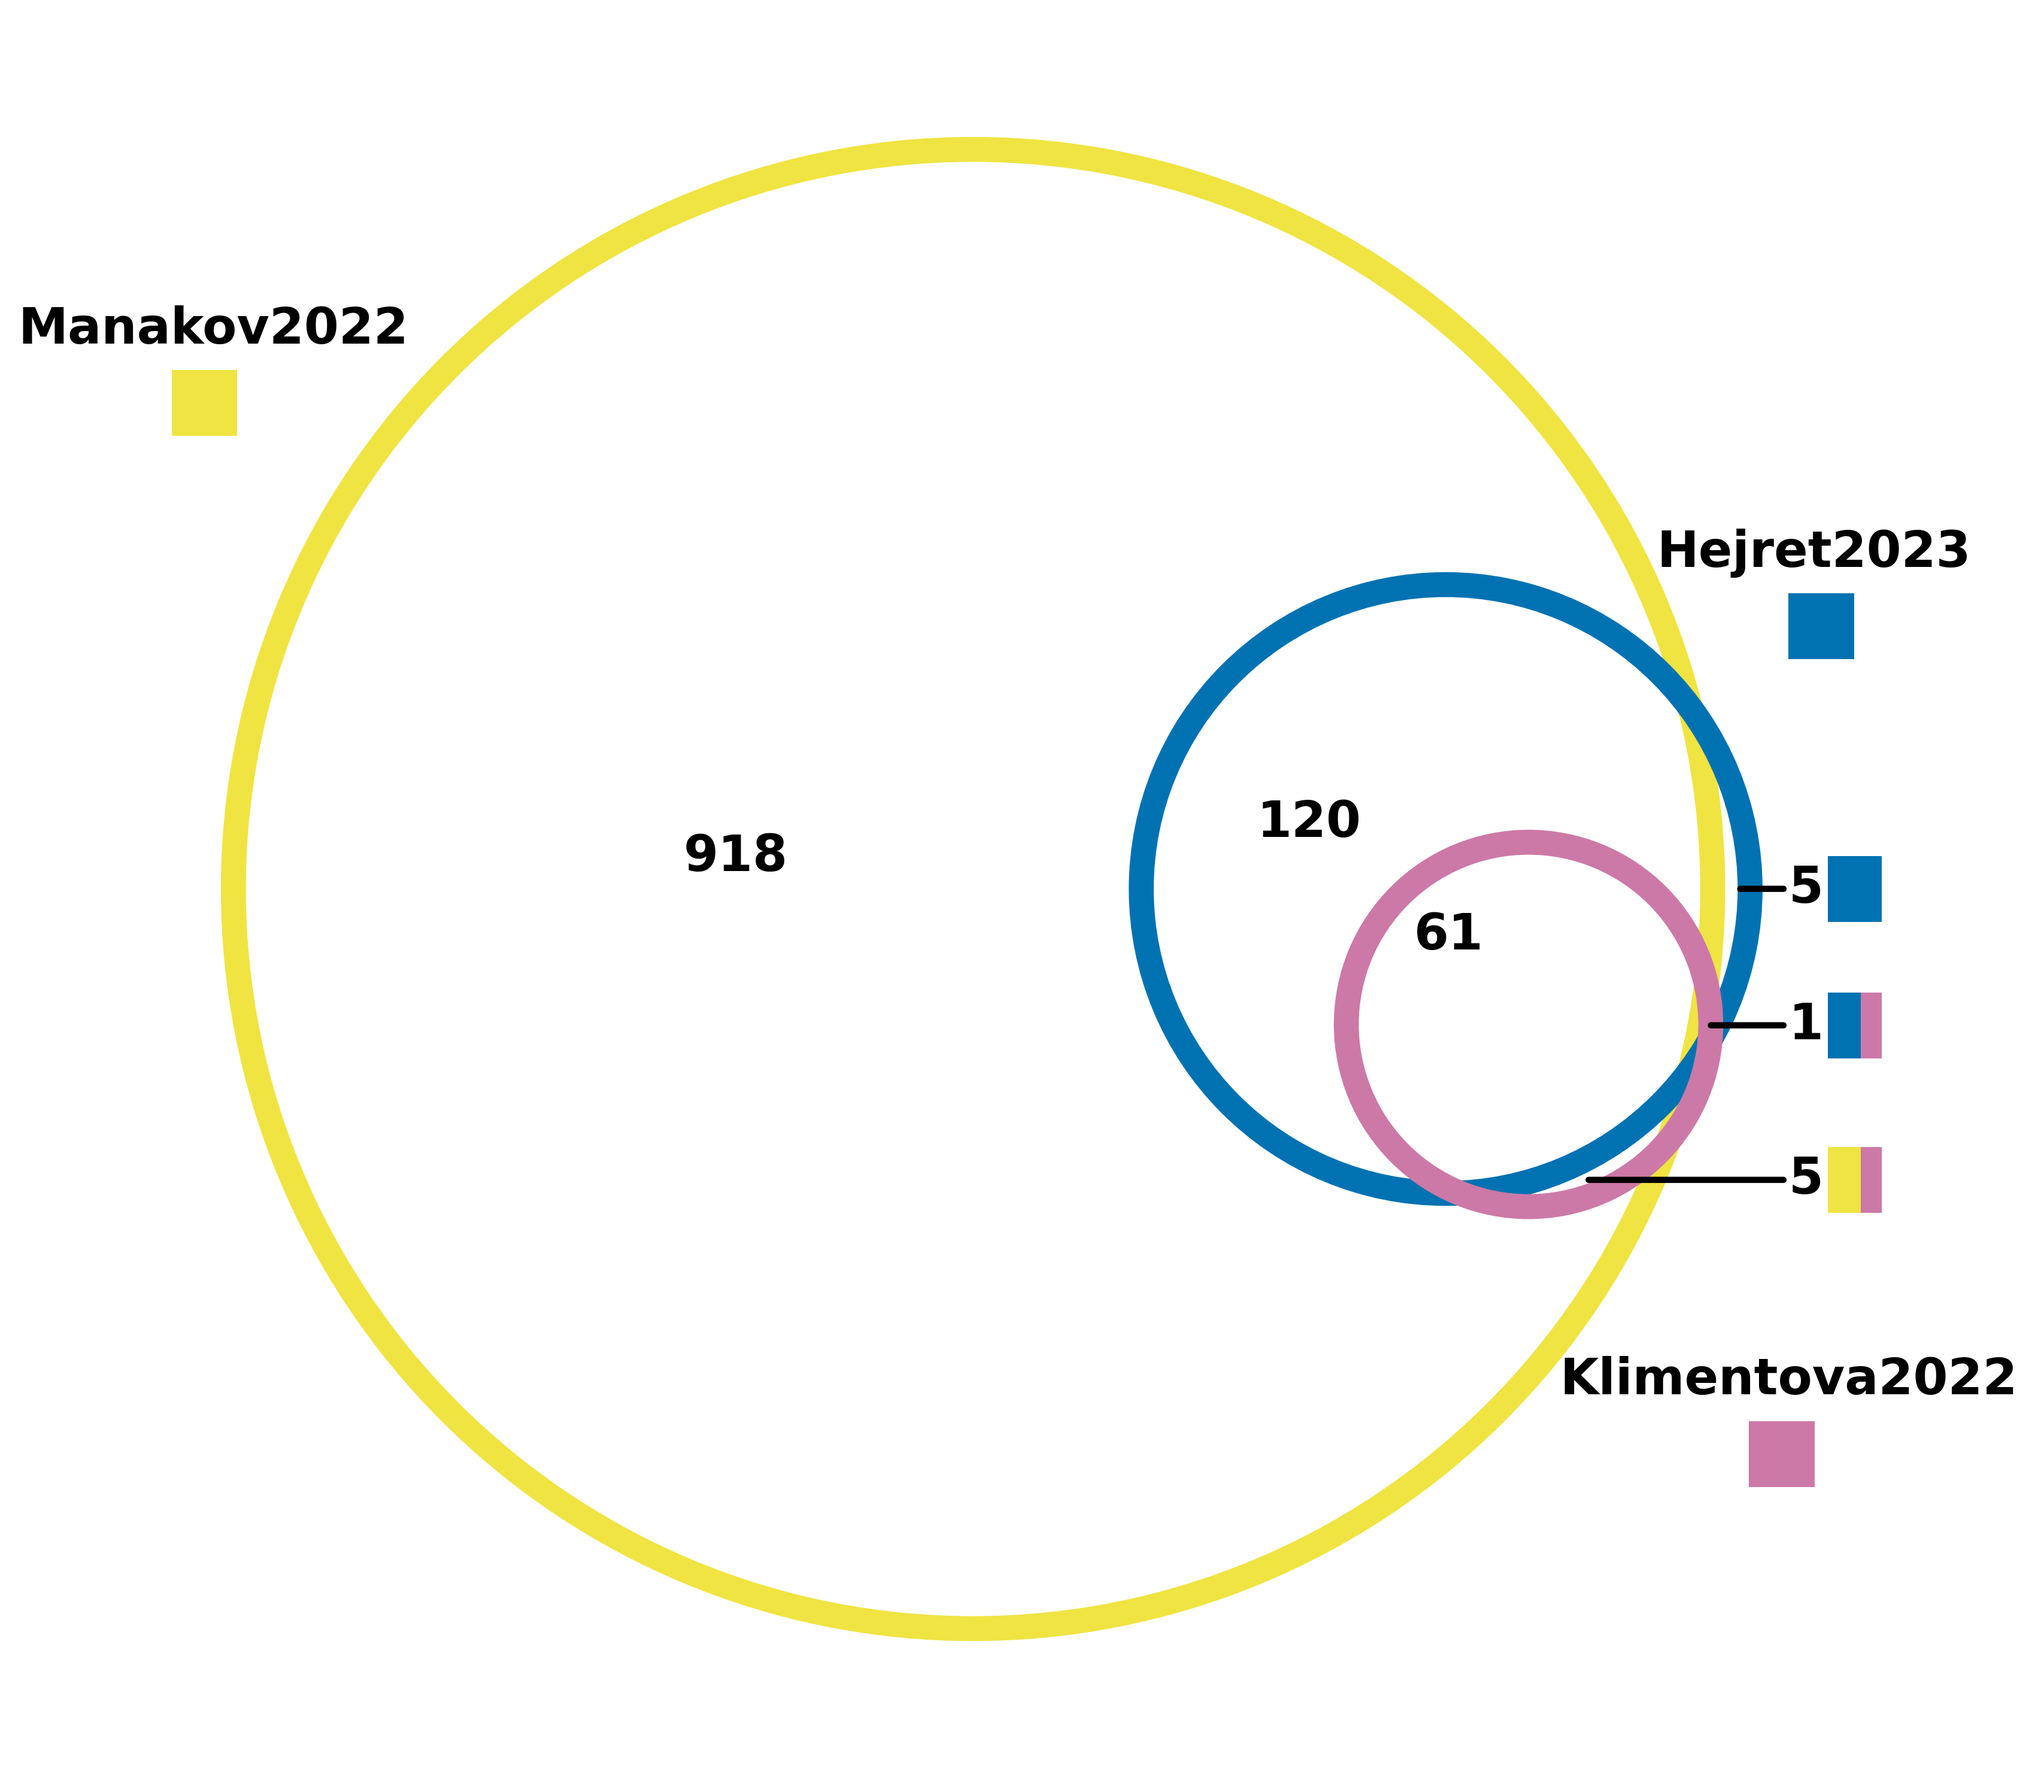
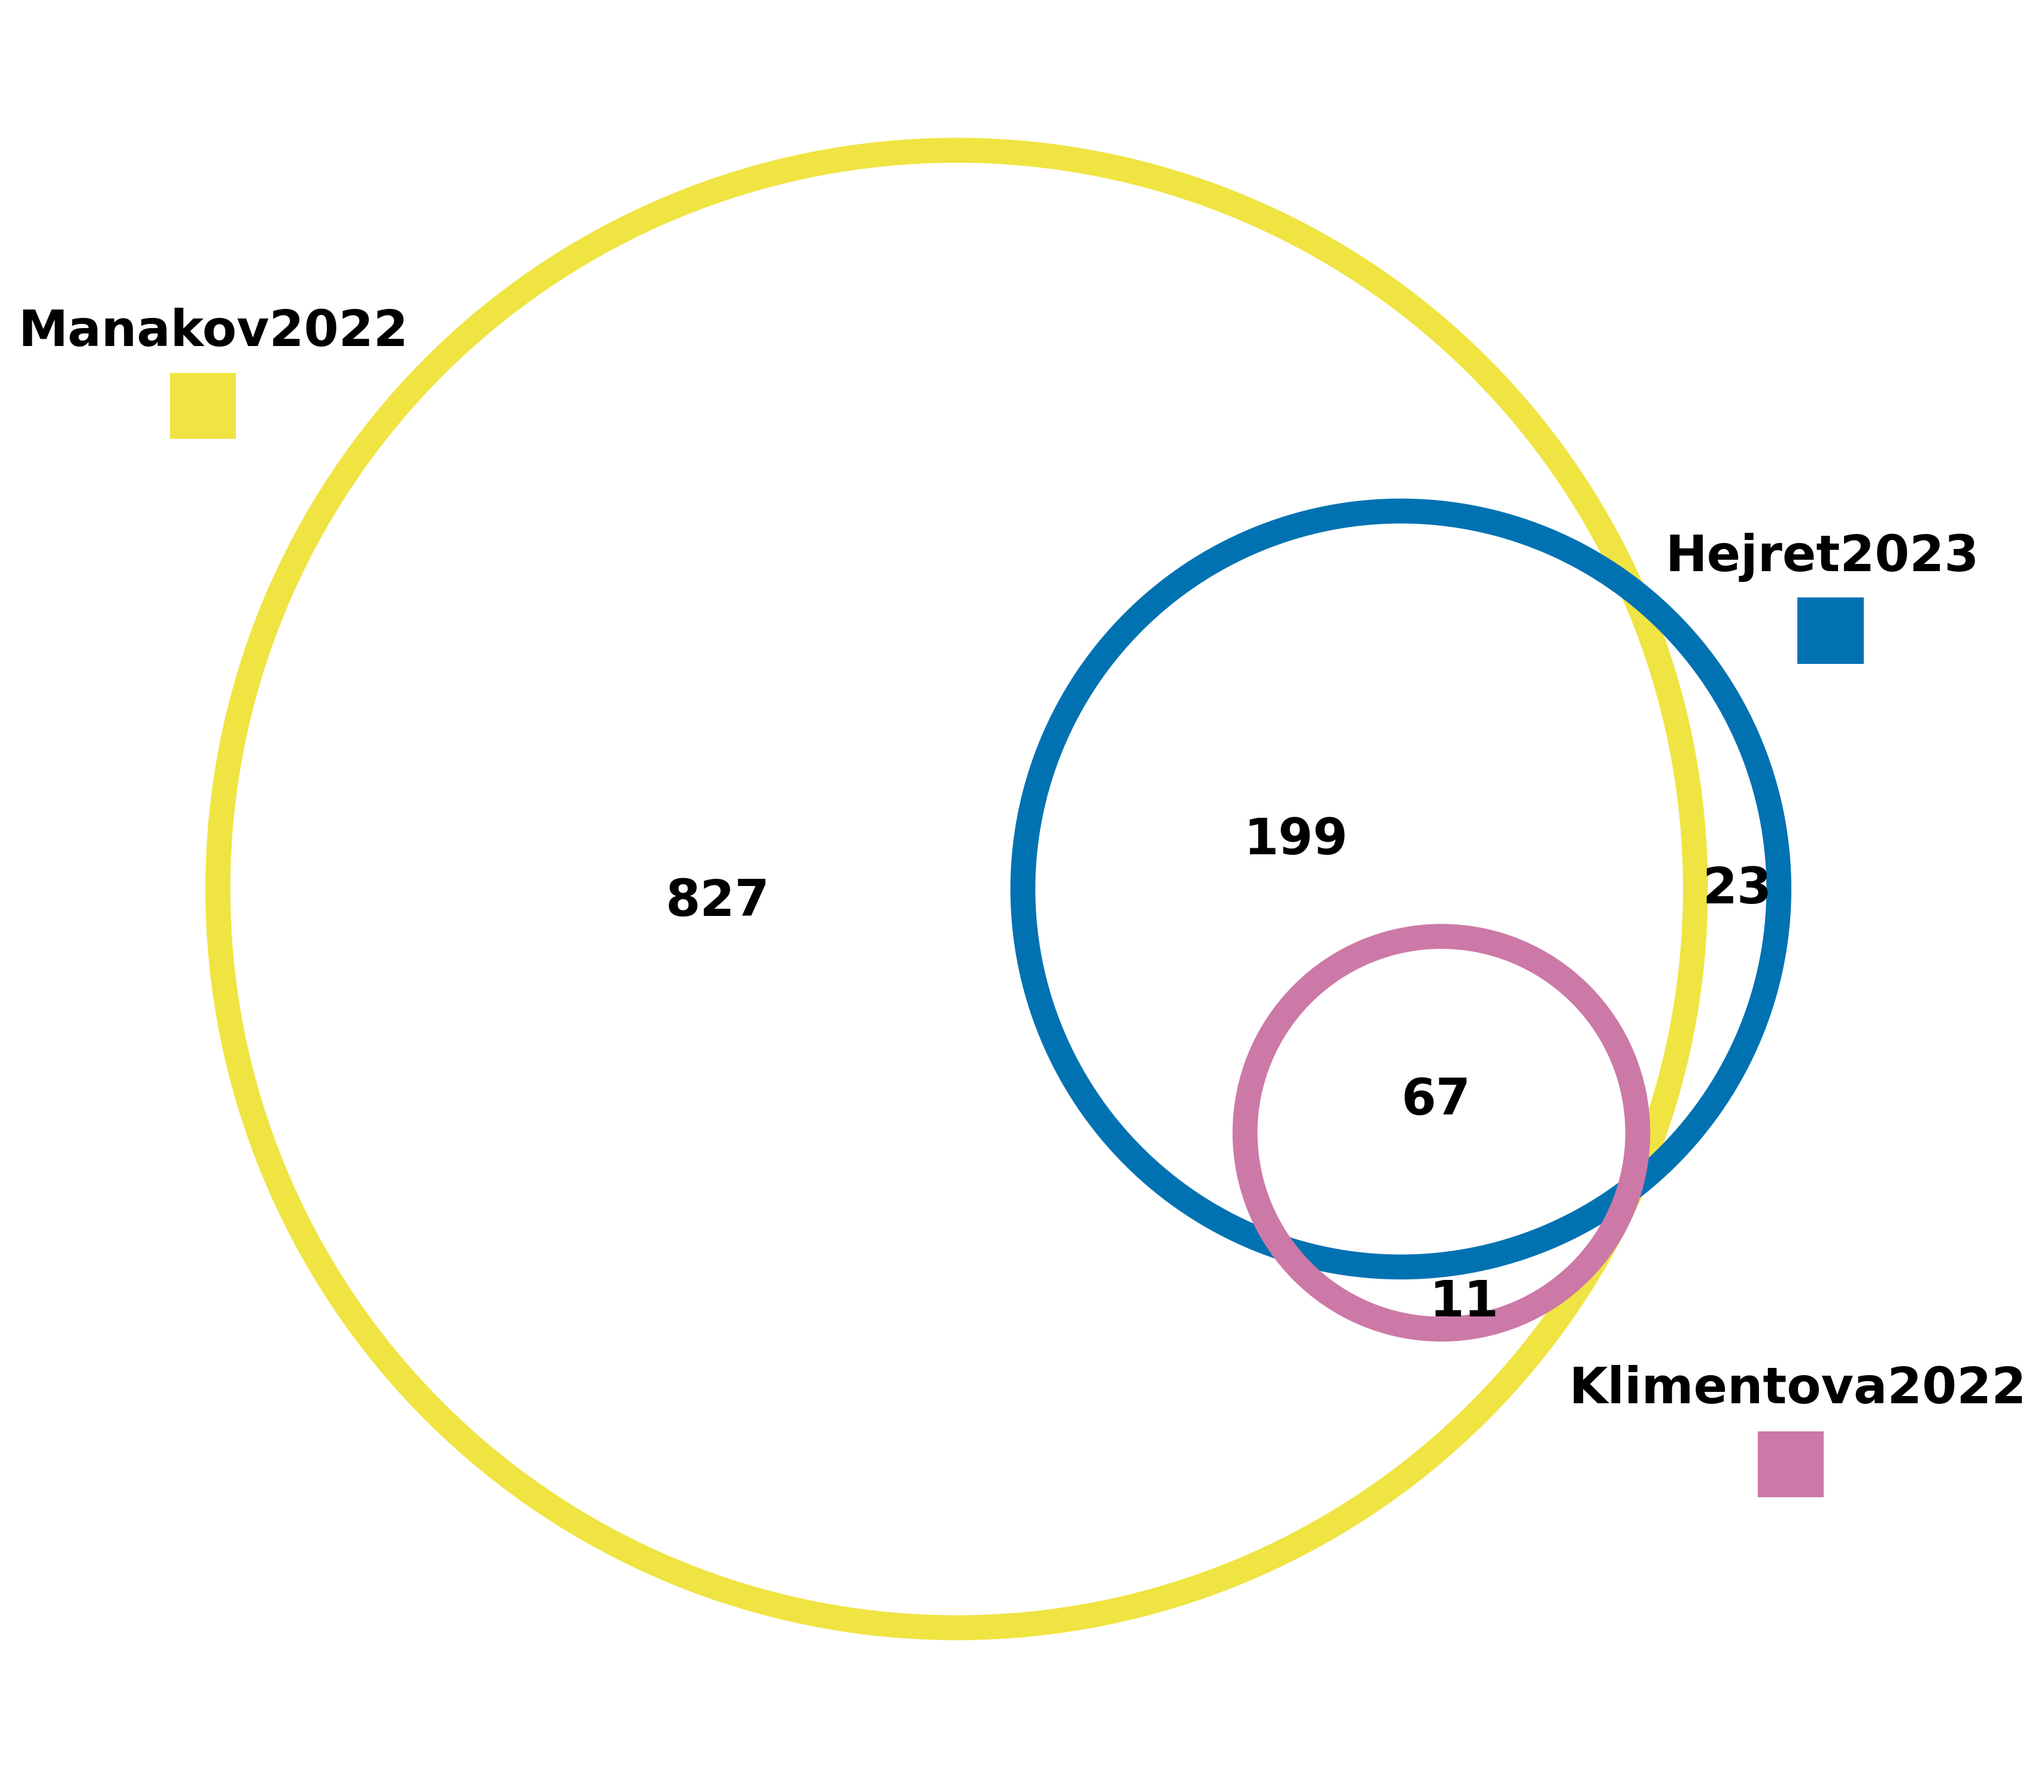
updated datasets.md to include family_assign. updated family_counts and venn.

diff --git a/code/plots/datasets.md b/code/plots/datasets.md
@@ -1,0 +1,15 @@
+# Note on datasets used for getting plots
+
+## Hejret2023 dataset
+For *Hejret2023* dataset, you can find the input file [here](https://raw.githubusercontent.com/ML-Bioinfo-CEITEC/HybriDetector/refs/heads/main/ML/Datasets/AGO2_CLASH_Hejret2023_full_dataset.tsv). 
+You need to filter for 'miRNA' only in the 'noncodingRNA_type' column and do deduplication on 'seq.g' + 'noncodingRNA_seq' while keeping the first line occurrence. You then need to change 'miRNA_fam' column name to 'noncodingRNA_fam', and 'noncodingRNA_seq' column name to 'noncodingRNA', and run miRBench_paper/code/family_assign/family_assign.py to add miRNA family where value is 0. 
+
+## Klimentova2022 dataset
+For *Klimentova2022* dataset, merge [this raw HybriDetector output](https://raw.githubusercontent.com/ML-Bioinfo-CEITEC/miRBind/refs/heads/main/Datasets/AGO2_eCLIP_Klimentova22_full_dataset.tsv)
+filtered for 'miRNA' only in the 'noncodingRNA_type' column with
+[the file prepared for model testing](https://raw.githubusercontent.com/ML-Bioinfo-CEITEC/miRBind/refs/heads/main/Datasets/AGO2_eCLIP_Klimentova2022_1_test.tsv) filtered for positives only ('label' == 1). 
+Do inner merge based on gene sequence ('seq.g' and 'gene') and miRNA sequence ('noncodingRNA_seq' and 'noncodingRNA') columns. You then need to change 'miRNA_fam' column name to 'noncodingRNA_fam', and 'noncodingRNA_seq' column name to 'noncodingRNA', and run miRBench_paper/code/family_assign/family_assign.py to add miRNA family where value is 0. 
+
+## Manakov2022 dataset
+For *Manakov2022* dataset, use the intermediate output from the post-process pipeline from the family_assign step (before the 'sorting' and 'make_negatives' steps) with the `.unified_length_all_types_unique_high_confidence_family_assigned_data.tsv` suffix. Code for plotting uses different column names than in the Manakov dataset. Change the column names in the Manakov dataset as follows:
+gene / noncodingRNA / noncodingRNA_fam to seq.g / seq.m / miRNA_fam, respectively. 
